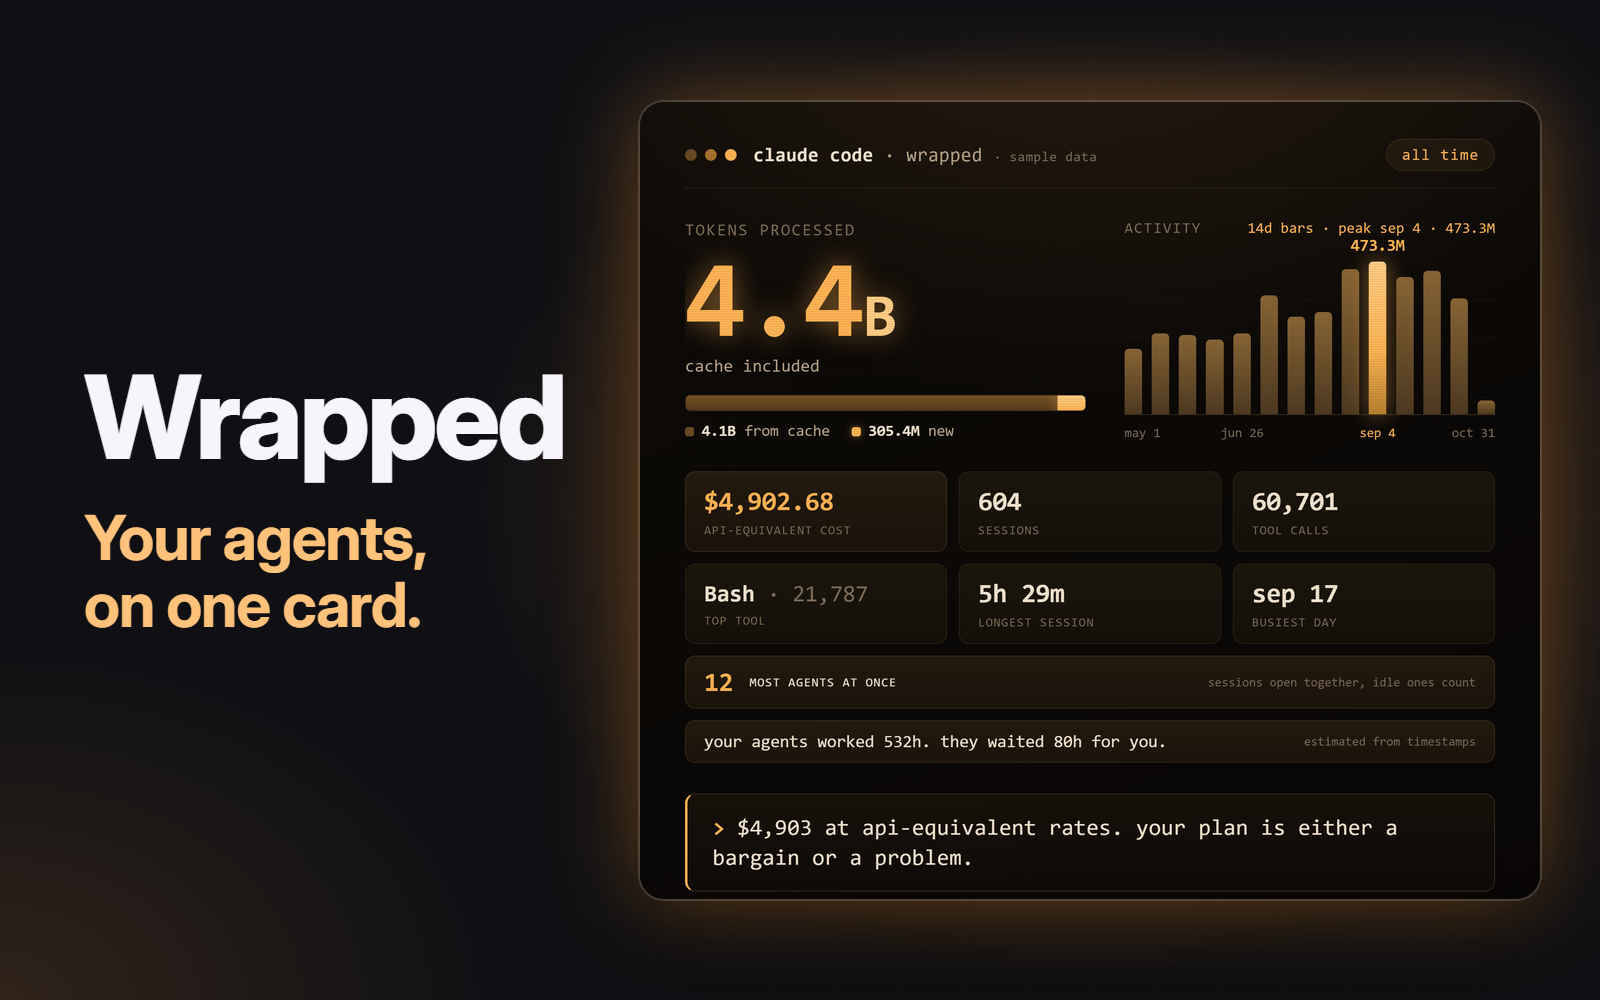
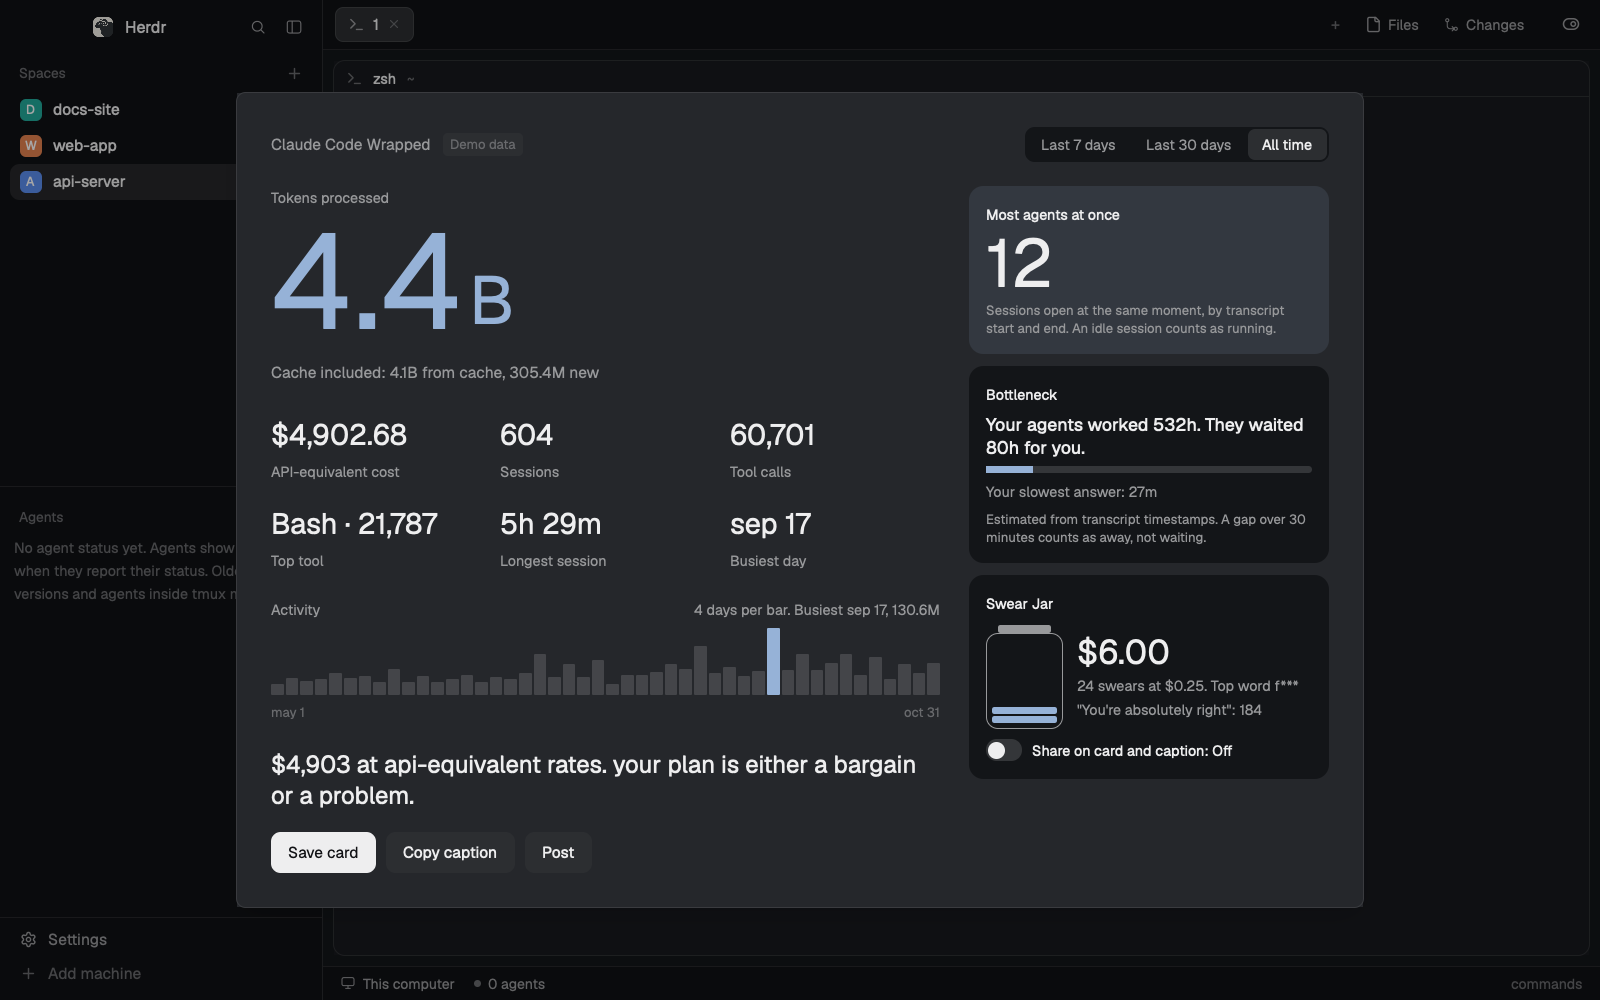
Retake the preview in a demo Herdr window
The card on herdr.dev/gallery is 16:10 and crops from the top left. This shot is the whole 1600 by 1000 window, as the other gallery previews are, taken in a demo home with made-up spaces.

diff --git a/RECIPE.md b/RECIPE.md
@@ -2,7 +2,7 @@
 
 An overlay that shows a person their Claude Code stats as a card to share. One big token number, what it would have cost, how they worked, the most agents they had going at once, how long their agents waited for them, a swear jar, and a dry line picked by their own numbers. A key opens it over whatever they're doing. From it they can save the card as a PNG, copy a caption, or start a post on X.
 
-![Wrapped](preview.png)
+![The Wrapped overlay on demo data over a Herdr window](preview.png)
 
 ## What you see
 

diff --git a/README.md b/README.md
@@ -2,7 +2,7 @@
 
 An overlay for Herdr that shows your Claude Code stats as a card to share: tokens, cost, tools, your busiest day, the most agents you had going at once, how long they waited for you, and a swear jar.
 
-![Wrapped](preview.png)
+![The Wrapped overlay on demo data over a Herdr window](preview.png)
 
 A mod for the [Herdr](https://github.com/ogulcancelik/herdr) desktop app. Built for macOS.
 
